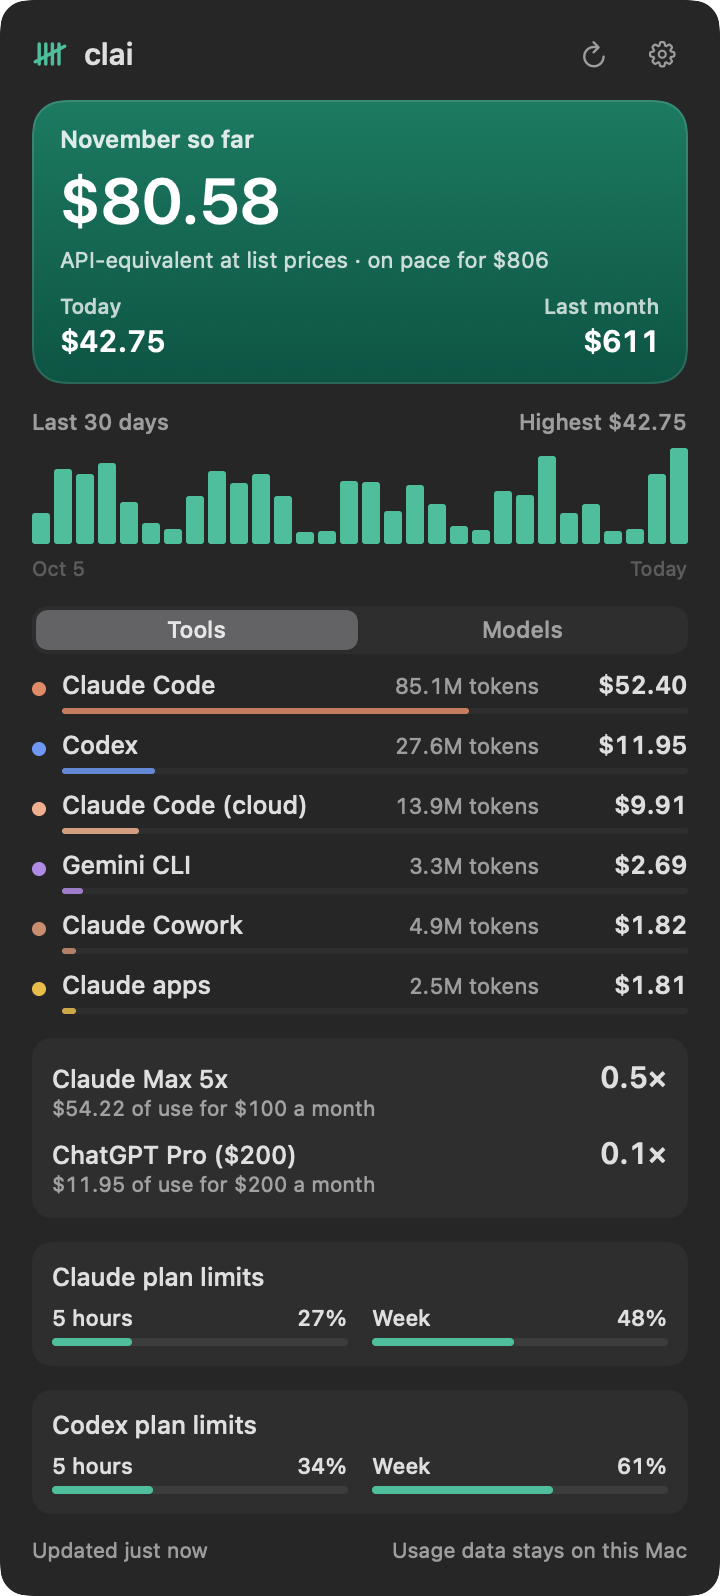
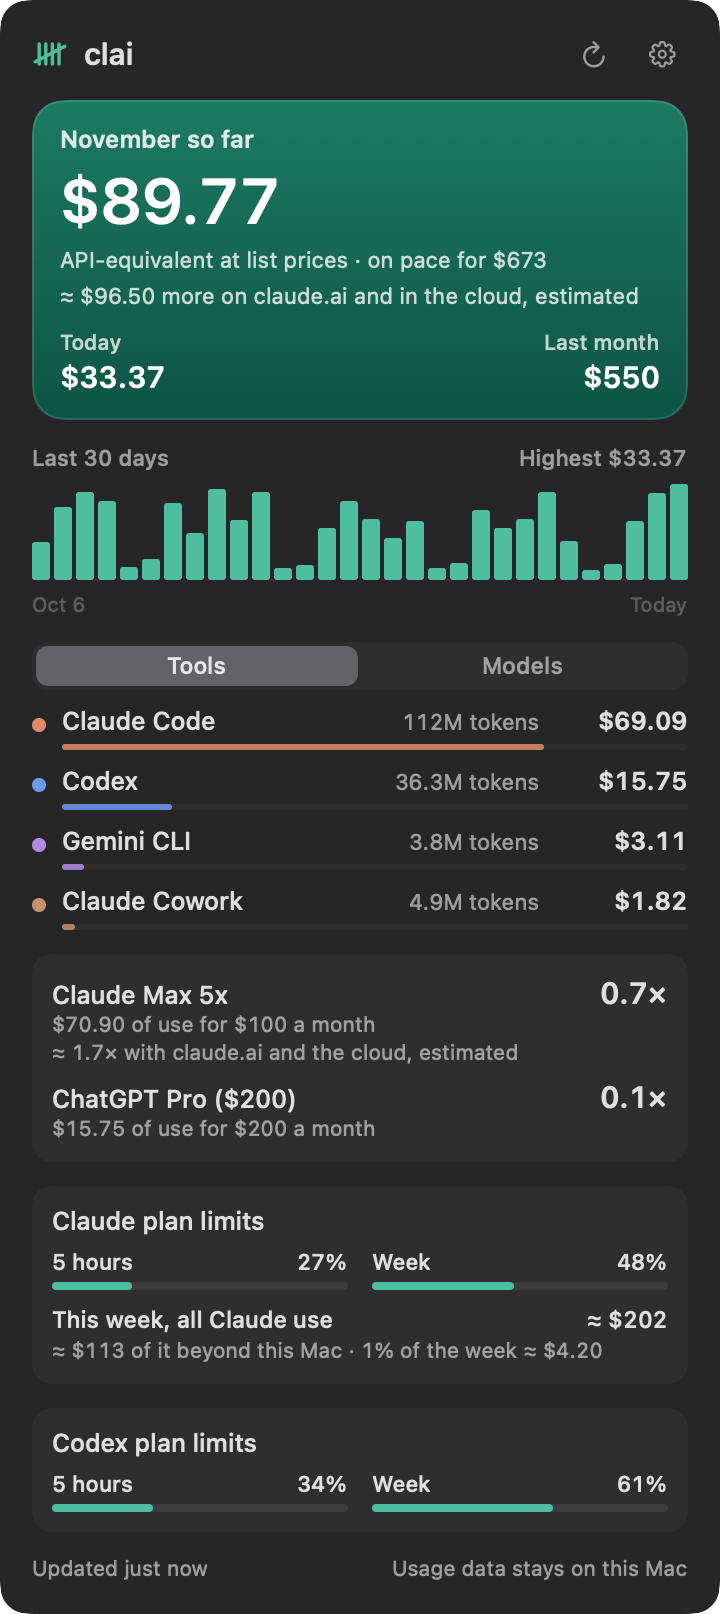
Site: panel images with the Claude estimate
Claude-Session: https://claude.ai/code/session_01N68iW3rgze7V63KPuj4a1z

diff --git a/apps/site/public/index.html b/apps/site/public/index.html
@@ -81,7 +81,7 @@
           <div class="panel-wrap">
             <picture>
               <source srcset="/panel-dark.png" media="(prefers-color-scheme: dark)" />
-              <img class="panel" src="/panel-light.png" width="360" height="798" alt="The clai panel with sample data: this month so far at API list prices with today and last month, a 30-day chart, spend by tool including Claude Code in the cloud and the Claude apps, plan value for Claude Max and ChatGPT Pro, and Claude and Codex plan limits." />
+              <img class="panel" src="/panel-light.png" width="360" height="807" alt="The clai panel with sample data: this month so far at API list prices with today and last month, an estimate of Claude use on claude.ai and in the cloud, a 30-day chart, spend by tool, plan value for Claude Max and ChatGPT Pro, and Claude and Codex plan limits with this week's estimated Claude use." />
             </picture>
           </div>
           <figcaption>The real panel, drawn with sample data.</figcaption>
